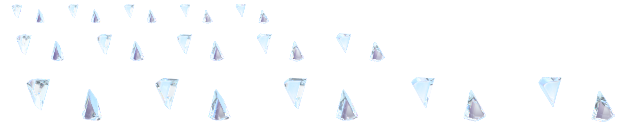
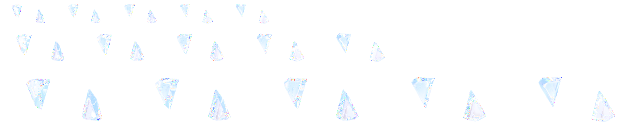
fresnel(desktop): 크리스탈을 더 맑게 다시 굽고, 급함을 빛깔 없는 반전과 한 번의 톡으로, 확인이 필요한 줄을 이어지는 물듦 띠로 바꾼다(AGE-53)
- 크리스탈: 새 장면으로 판 둘을 다시 굽는다(면 너머로 바탕이 비치는 맑은 유리, 날의 작은 반짝임과 안쪽의 가는 줄).
  판 합계 약 64KB로 넷째 판보다 약 3.7KB 크다. 배치표는 그대로다.
- 급함(시한 있는 승인): info solid 파랑 면을 버리고 무채색 안에서 뒤집는다(면 text.primary, 숫자 bg.app, 굵기 700).
  새로 급해진 순간 한 번만 크기로 톡 커졌다 앉는다(0.9초, 밝기·빛깔 없음). 움직임 줄이기에서는 뒤집힌 면만이다.
- 확인이 필요한 대화 줄: 줄 단추에 data-attention을 두고 줄 칸 뒤에 옅은 오로라 물듦을 깐다(전체 폭, 왼쪽이 짙음).
  연달아 있는 줄은 아래로 2px 틈을 덮고 맞닿은 모서리를 펴서 한 띠로 잇는다(띠의 맨 위·맨 아래만 둥긂).
- spec DP-189, DP-190, DP-211, DP-223을 함께 고친다.

Claude-Session: https://claude.ai/code/session_01MZdxZPNkAEhvBZt7MZTX8h

diff --git a/xeon/apps/desktop/src/views/effects/attention.css b/xeon/apps/desktop/src/views/effects/attention.css
@@ -1,5 +1,5 @@
 /* 주의 면과 수 면(attention-mark.tsx의 AttendGlow, dot-orb.tsx, DP-188~191 [결정: 2026-11-13 사용자]). 주의 구슬은 없앴다(DP-211). "내 확인이 필요함"은 크리스탈 표시(crystal-mark.tsx, DP-223),
-   대화 줄 끝 수의 둥근 면(lcMk3: 줄 물듦과 줄의 표시를 뺐다), 카드의 오로라 면(종류마다 빛깔 조합, lcMk4)이 맡고(숫자는 무채색, lcMk2),
+   대화 줄의 옅은 물듦(연달아 있으면 한 띠, lcMk5)과 끝 수의 둥근 면(급함은 무채색 반전, lcMk5), 카드의 오로라 면(종류마다 빛깔 조합, lcMk4)이 맡고(숫자는 무채색, lcMk2),
    "도는 중"은 생각 구슬과 같은 흑백 점 구슬(progress-orb.tsx)이 맡는다. 구슬은 canvas라 여기는 칸과 면만 그린다.
    표시를 더하기보다 면(수 면·카드 빛)을 먼저 쓴다. 동시에 움직이는 수는 attention-budget.ts가 정한다(요청 그림 빛 3, 진행 구슬 8, 카드 오로라 1).
    caustic의 스펙트럼 고리(`orb` 유틸리티), 별·느낌표·단색 점은 앱에서 쓰지 않는다(DP-188, 시험 source-rules).
@@ -205,33 +205,38 @@
 /* 보통: caustic 배지(neutral soft, xs: 높이 18, 좌우 6) 그대로이고 그라데이션·빛 번짐이 없다. caustic 목록의 뜨거운 수(`listNavigationCount` hot)처럼
    최소 폭이 높이와 같아 한 자리는 원, 두 자리·"99+"는 알약이고 굵기 600·고정폭 숫자다
    (DP-189 [결정: 2026-11-19 사용자 "일반적인 경우는 배경색에 그라데이션이 아닌 caustic 랭귀지에 맞춰서", lcMk4]).
-   급함(시한 있는 승인): 배지가 info solid(채도 높은 파랑 면, 흰 글자)로 바뀌어 멈춘 채로도 읽히고, 새로 급해진 순간 한 번만 숨 쉬듯
-   커지며 밝아졌다 가라앉는다(`data-cue="urgent"`, 1.1초, 고리 없음). 움직임 줄이기에서는 색만이다 */
+   급함(시한 있는 승인): 빛깔 없이 무채색 안에서 뒤집힌다. 면은 글자색(text.primary), 숫자는 바탕색(bg.app)·굵기 700이라 멈춘 채로도 보통 수와
+   갈리고, 새로 급해진 순간 한 번만 톡 커졌다 앉는다(`data-cue="urgent"`, 0.9초, 크기만). 움직임 줄이기에서는 뒤집힌 면만이다
+   [결정: 2026-11-19 사용자 "3색없는 버전으로 4.나 가 좋은데", lcMk5가 lcMk4의 info solid 파랑 면과 밝기 숨을 바꿈] */
 .fx-attend-pill {
   min-width: var(--cs-control-compact-2xs);
   justify-content: center;
   font-weight: 600;
   font-variant-numeric: tabular-nums;
 }
+.fx-attend-pill[data-urgent] {
+  background-color: var(--cs-color-text-primary);
+  color: var(--cs-color-bg-app);
+  font-weight: 700;
+}
 .fx-attend-pill[data-cue="urgent"] {
-  animation: fx-attend-urgent 1100ms cubic-bezier(0.22, 1, 0.36, 1) 1;
+  animation: fx-attend-urgent 900ms cubic-bezier(0.22, 1, 0.36, 1) 1;
 }
 @keyframes fx-attend-urgent {
   0% {
-    transform: scale(0.86);
-    filter: brightness(1);
+    transform: scale(0.82);
   }
-  28% {
-    transform: scale(1.14);
-    filter: brightness(1.35);
+  30% {
+    transform: scale(1.18);
   }
-  62% {
-    transform: scale(0.97);
-    filter: brightness(1.1);
+  58% {
+    transform: scale(0.95);
+  }
+  80% {
+    transform: scale(1.02);
   }
   100% {
     transform: scale(1);
-    filter: brightness(1);
   }
 }
 @media (prefers-reduced-motion: reduce) {
@@ -241,6 +246,54 @@
 }
 :root[data-motion="reduce"] .fx-attend-pill[data-cue="urgent"] {
   animation: none;
+}
+
+/* ---------- 확인이 필요한 대화 줄의 물듦(thread-list.tsx `data-attention`, DP-190) ---------- */
+
+/* 줄 칸(li) 뒤에 옅은 오로라 물듦을 깐다(줄 단추의 가리킴·고른 면은 그 위에 선다). 연달아 있는 확인 필요 줄은 하나의 띠로 잇는다:
+   다음 줄도 물들면 아래 모서리를 펴고 줄 사이 1px 틈까지 덮고, 앞 줄도 물들면 위 모서리를 편다. 그래서 띠의 맨 위 줄과 맨 아래 줄에만
+   둥근 모서리가 남는다(줄 사이에는 ⋯ 칸 li가 끼어 있어 `+ [data-row-menu] +`로 이웃 줄을 찾는다). 다른 폴더 묶음의 줄은 다른 목록이라 잇지 않는다
+   [결정: 2026-11-19 사용자 "4.나 가 좋은데, 얘는 border radius를 없애던가 해서, 연속적인 두 row가 확인이 필요할 때, 어색하게 보여지지 않고
+   이어지게 보이도록", lcMk5가 lcMk3의 "물듦 없음"을 바꿈] */
+:root {
+  --fx-row-wash: 11%;
+}
+:root[data-theme="light"] {
+  --fx-row-wash: 8%;
+}
+[data-slot="list-navigation-item"]:has(> [data-attention]) {
+  position: relative;
+  isolation: isolate;
+}
+[data-slot="list-navigation-item"]:has(> [data-attention])::before {
+  content: "";
+  position: absolute;
+  inset: 0;
+  z-index: -1;
+  border-radius: var(--cs-radius-lg);
+  pointer-events: none;
+  background-image: linear-gradient(
+    90deg,
+    color-mix(in oklch, var(--fx-crystal-a) var(--fx-row-wash), transparent),
+    color-mix(in oklch, var(--fx-crystal-b) calc(var(--fx-row-wash) * 0.7), transparent) 60%,
+    color-mix(in oklch, var(--fx-crystal-b) calc(var(--fx-row-wash) * 0.45), transparent)
+  );
+}
+/* 다음 줄도 물듦: 아래 모서리를 펴고 줄 사이 틈까지 내려 덮는다. 틈은 2px다: 줄과 ⋯ 칸 사이, ⋯ 칸과 다음 줄 사이의 격자 간격(gap-px)이
+   하나씩이고 ⋯ 칸은 음수 여백이라 높이 0인 칸이다 */
+[data-slot="list-navigation-item"]:has(> [data-attention]):has(
+    + [data-row-menu] + [data-slot="list-navigation-item"] > [data-attention]
+  )::before {
+  bottom: -2px;
+  border-end-start-radius: 0;
+  border-end-end-radius: 0;
+}
+/* 앞 줄도 물듦: 위 모서리를 편다 */
+[data-slot="list-navigation-item"]:has(> [data-attention])
+  + [data-row-menu]
+  + [data-slot="list-navigation-item"]:has(> [data-attention])::before {
+  border-start-start-radius: 0;
+  border-start-end-radius: 0;
 }
 
 /* ---------- 안전망: caustic 스펙트럼 고리를 쓰지 않는다(DP-188) ---------- */

diff --git a/xeon/apps/desktop/src/views/thread-list.tsx b/xeon/apps/desktop/src/views/thread-list.tsx
@@ -142,9 +142,10 @@ function approvalCountText(approvals: number): string {
 /**
  * 줄 끝 승인 수(DP-189 [결정: 2026-11-18 사용자 "숫자의 백그라운드에 동그란 surface를 넣어줘. 패딩은 너무 크지않게 적당히", lcMk3]).
  * 보통은 caustic 배지(neutral soft, xs 18px, 좌우 6px) 그대로다: 그라데이션 없이 caustic의 면·글자색·모서리([결정: 2026-11-19 사용자 "일반적인 경우는
- * 배경색에 그라데이션이 아닌 caustic 랭귀지에 맞춰서", lcMk4]). 급함(시한 있는 승인)은 채도 높은 info solid 면에 흰 글자이고, 보던 줄이 새로 급해진
- * 순간 한 번만 숨 쉬듯 커지며 밝아졌다 가라앉는다(`data-cue="urgent"`, [결정: 2026-11-19 사용자 "더 채도높은 색을 쓰던지 마이크로 모션 이펙트를 넣던지"]).
- * 처음 그릴 때(목록을 열 때)는 움직이지 않는다. 보이는 숫자는 낭독하지 않고 숨은 글이 "승인 n개를 기다려요(· 시한이 있어요)"를 말한다
+ * 배경색에 그라데이션이 아닌 caustic 랭귀지에 맞춰서", lcMk4]). 급함(시한 있는 승인)은 빛깔 없이 무채색 안에서 뒤집힌다: 면이 글자색(text.primary),
+ * 숫자가 바탕색(bg.app)·굵기 700이라 멈춘 채로도 보통 수와 갈리고, 보던 줄이 새로 급해진 순간 한 번만 톡 커졌다 앉는다(`data-cue="urgent"`, 0.9초,
+ * 크기만) [결정: 2026-11-19 사용자 "3색없는 버전으로", lcMk5가 lcMk4의 info solid 파랑 면을 바꿈]. 처음 그릴 때(목록을 열 때)는 움직이지 않는다.
+ * 보이는 숫자는 낭독하지 않고 숨은 글이 "승인 n개를 기다려요(· 시한이 있어요)"를 말한다
  */
 function ApprovalCount(props: { readonly approvals: number; readonly urgent: boolean }): ReactNode {
   const waiting = t("desktop.threads.approvalsWaiting", { count: props.approvals });
@@ -158,8 +159,8 @@ function ApprovalCount(props: { readonly approvals: number; readonly urgent: boo
   return (
     <Badge
       size="xs"
-      // 급함은 caustic info solid의 면·글자(배지 solid × info와 같은 토큰). 보통은 배지 기본(neutral soft) 그대로다
-      className={props.urgent ? "fx-attend-pill bg-info-solid text-info-on" : "fx-attend-pill"}
+      // 급함의 뒤집힌 면·글자는 attention.css `.fx-attend-pill[data-urgent]`가 칠한다. 보통은 배지 기본(neutral soft) 그대로다
+      className="fx-attend-pill"
       data-thread-badge="approvals"
       data-urgent={props.urgent ? "" : undefined}
       data-cue={cue ? "urgent" : undefined}
@@ -211,7 +212,7 @@ const ThreadRow = memo(function ThreadRow(props: {
       <ListNavigationItem
         current={selected}
         // 앞 칸(DP-189 [결정: 2026-11-13 사용자 "좌측 아이콘은 아예 빼버리고"]): 줄 앞에는 표시를 두지 않아 모든 줄의 제목이 같은 열에 선다.
-        // 내 확인이 필요하면 끝의 둥근 면 위 숫자(줄 물듦은 lcMk3가 뺐다), 도는 중이면 끝의 진행 구슬, 안 보냈으면 caustic 실패 점이다. caustic
+        // 내 확인이 필요하면 줄의 옅은 물듦과 끝의 둥근 면 위 숫자(DP-190, lcMk5), 도는 중이면 끝의 진행 구슬, 안 보냈으면 caustic 실패 점이다. caustic
         // `status="running"`은 스펙트럼 고리를 그려 쓰지 않는다(DP-188). 승인을 기다리는 턴은 멈춰 있으므로 주의가 이긴다(진행 구슬 없음)
         {...(!attention && !running && unsent
           ? {
@@ -228,6 +229,8 @@ const ThreadRow = memo(function ThreadRow(props: {
         }
         // 목록 순서가 바뀌거나 행이 들고 날 때 옛 자리에서 이어 온다(ThreadList의 useFlipList)
         data-flip-key={id}
+        // 확인이 필요한 줄의 물듦: 연달아 있는 줄은 attention.css가 한 띠로 잇는다(DP-190)
+        data-attention={attention ? "" : undefined}
         title={tooltip}
         // 오른쪽 클릭은 ⋯와 같은 메뉴를 연다(줄 끝 ⋯ 자리에 붙는다)
         onContextMenu={(event) => {

diff --git a/xeon/apps/desktop/test/styles/source-rules.test.ts b/xeon/apps/desktop/test/styles/source-rules.test.ts
@@ -212,10 +212,11 @@ test("status marks are dotted orbs, never stars or solid dots (DP-189)", () => {
 const hues = (text: string): number[] =>
   [...text.matchAll(/oklch\(\s*[\d.]+\s+[\d.]+\s+([\d.]+)\s*\)/g)].map((m) => Number(m[1]));
 
-test("attention counts are caustic badges without a gradient, urgent is info solid, and each card kind has its own aurora around its tile hue (DP-189, DP-190)", () => {
+test("attention counts are caustic badges without a gradient, urgent is an inverted colourless badge, attention rows join into one wash, and each card kind has its own aurora around its tile hue (DP-189, DP-190)", () => {
   // 사용자 결정(2026-11-18, lcMk2): "숫자 무채색 바꿔. 호박색 쓰지말고". lcMk3: "숫자의 백그라운드에 동그란 surface". 줄 물듦은 수 면과 겹쳐 과해 뺐다(lcMk3).
   // lcMk4(2026-11-19): "일반적인 경우는 배경색에 그라데이션이 아닌 caustic 랭귀지에 맞춰서", "더 채도높은 색을 쓰던지 마이크로 모션",
   // "변경검토나 단순 질문이나, 가드 각각 다른 색이 중심인데, 각 중심색에 맞게 오로라의 색조합들도 각각 다르게"
+  // lcMk5(2026-11-19): "3색없는 버전으로 4.나 가 좋은데, 얘는 border radius를 없애던가 해서, 연속적인 두 row가 확인이 필요할 때 … 이어지게"
   const css = read(join(SRC, "views/effects/attention.css")).replace(/\/\*[\s\S]*?\*\//g, "");
   const rule = (selector: string): string => {
     const at = css.indexOf(`${selector} {`);
@@ -223,6 +224,12 @@ test("attention counts are caustic badges without a gradient, urgent is info sol
   };
   const count = rule(".fx-attend-count");
   const pill = rule(".fx-attend-pill");
+  const urgent = rule(".fx-attend-pill[data-urgent]");
+  const cue = css.slice(
+    css.indexOf("@keyframes fx-attend-urgent"),
+    css.indexOf("@media", css.indexOf("@keyframes fx-attend-urgent")),
+  );
+  const wash = rule('[data-slot="list-navigation-item"]:has(> [data-attention])::before');
   const list = codeOf(join(SRC, "views/thread-list.tsx"));
   const kinds = ["review", "question", "tool", "guard"].map((kind) =>
     rule(`.fx-attend-glow[data-kind="${kind}"]`),
@@ -239,9 +246,25 @@ test("attention counts are caustic badges without a gradient, urgent is info sol
     kinds.map((block) => centre(block).every((h) => h >= 40 && h <= 100)),
     kinds.map(centre),
     hues(css).filter((h) => h > 21 && h < 45),
-    /<Badge\b[^>]*className=\{props\.urgent \? "fx-attend-pill bg-info-solid text-info-on" : "fx-attend-pill"\}/.test(
+    // 급함: 무채색 안에서 뒤집힌 면(글자색 면, 바탕색 숫자)이고 빛깔(info·oklch)이 없다. 한 번의 움직임은 크기만이다
+    /<Badge\b[^>]*className="fx-attend-pill"[^>]*data-urgent=\{props\.urgent \? "" : undefined\}/.test(
       list,
     ),
+    [
+      /background-color:\s*var\(--cs-color-text-primary\)/.test(urgent),
+      /color:\s*var\(--cs-color-bg-app\)/.test(urgent),
+      /info|oklch|hsl|rgb/.test(urgent + list.slice(list.indexOf("function ApprovalCount"))),
+      /filter|color|opacity/.test(cue),
+    ],
+    // 확인이 필요한 줄은 물들고(data-attention), 연달아 있으면 아래로 틈을 덮고 맞닿은 모서리를 편다
+    [
+      /data-attention=\{attention \? "" : undefined\}/.test(list),
+      /--fx-crystal-a/.test(wash),
+      /bottom:\s*-2px;\s*border-end-start-radius:\s*0;\s*border-end-end-radius:\s*0/.test(css),
+      /\+ \[data-row-menu\]\s*\+ \[data-slot="list-navigation-item"\]:has\(> \[data-attention\]\)::before \{\s*border-start-start-radius:\s*0;\s*border-start-end-radius:\s*0/.test(
+        css,
+      ),
+    ],
     css.match(/\.fx-attend-count\b/g)?.length,
   ]).toEqual([
     true,
@@ -259,6 +282,8 @@ test("attention counts are caustic badges without a gradient, urgent is info sol
     ],
     [],
     true,
+    [true, true, false, false],
+    [true, true, true, true],
     1,
   ]);
 });

diff --git a/xeon/apps/desktop/src/views/effects/crystal-mark.tsx b/xeon/apps/desktop/src/views/effects/crystal-mark.tsx
@@ -2,7 +2,7 @@
 // "재질 색은 앱 아이콘처럼 3d rendering 이 된 느낌 … 색이 앱 아이콘 처럼 은은하고 반짝이는 느낌", lcMk3]). "내 확인이 필요함"을 말한다.
 // 그림은 미리 렌더링한 유리다: scripts/crystal-bake.ts가 로고의 갈라진 두 조각(crystal-geometry.ts)을 광선 추적해(굴절, 프레넬 반사, 전반사,
 // 빛깔별 굴절률, 둥근 날) 판 두 장(crystal-dark.png, crystal-light.png, 배치표 crystal-sheet.ts)으로 구워 두었고, 여기서는 그 칸들을 캔버스에
-// 겹쳐 그리기만 한다. 거의 무색의 유리에 아래 왼쪽 보라·위 오른쪽 청록이 아주 옅게 스치고, 날과 꼭짓점이 반짝인다.
+// 겹쳐 그리기만 한다. 거의 무색의 맑은 유리라 면 너머로 바탕이 비치고, 빛은 날의 작은 반짝임과 안쪽의 가는 줄에 모인다(lcMk5).
 // 움직임(crystal-motion.ts의 자세)은 칸을 옮겨 낸다: 틈은 두 조각을 갈라진 면을 따라 떼고(gap·split), 돌림(yaw)은 구운 이웃 두 각을 섞고,
 // 빛(glow)은 같은 칸을 한 번 더 얹어 밝히고, 빛줄기(sweep)는 유리 위에만 얹는다(source-atop).
 // 쉬는 상태는 멈춘 한 장면이다: 값이나 테마가 바뀔 때 한 번 그리고 requestAnimationFrame을 걸지 않는다. 상황이 바뀌면 그 표시만 시계에 올라

diff --git a/docs/xeon/L4/desktop-ux/spec.md b/docs/xeon/L4/desktop-ux/spec.md
@@ -3988,8 +3988,8 @@ DP-11을 caustic 토큰으로 정했습니다(caustic `27fe658`, `bbb094a`, `FOU
 - DP-172 [결정: 2026-11-13 사용자 "신호등의 align을 중앙정렬로 맞춰주고, fresnel 로고 아이콘을 제거해줘", dzZ] 머리 줄의 신호등과 로고. (1) 신호등은 어느 앱 확대에서도 머리 줄 세로 가운데입니다. 머리 줄은 확대를 따라 화면에서 45 × 확대 px이 되지만 신호등은 OS가 그대로 그리므로, 화면이 `window_chrome_state {zoom}`(%, L4.desktop.spec §11.5)으로 확대를 알리고 셸이 `setWindowButtonPosition`으로 y를 `round(((45 - 1) × 확대 - 지름) / 2)`에 다시 둡니다(macOS 26: 90% 13, 100% 15, 125% 21, 150% 26, 200% 37). x 16과 비우는 폭(DP-80)은 그대로입니다. 화면은 시작할 때와 `data-zoom`이 바뀔 때 알립니다. 실측(Electron 앱, 임시 홈): 신호등 가운데와 영역 탭 가운데의 차이 90% 0, 100% 0, 125% 0.4, 150% 0px(전에는 125%에서 5.6px 위). (2) 머리 줄의 Fresnel 로고는 없습니다. 펼친 패널 첫 줄은 영역 탭이 첫 요소라 신호등이 있으면 신호등 끝 + 16px(x 92), 없으면(전체 화면·웹) 패널 안쪽 6px에 서서 아래 "새 대화" 줄의 왼쪽 끝과 맞습니다. 접은 막대의 머리 칸은 빈 머리 띠로 남아 머리 선이 이어지고 아래 단추가 움직이지 않습니다. 앱 아이콘·독 아이콘·다른 화면의 로고는 그대로입니다. 구현: `apps/desktop-shell/src/main/window-chrome.ts`(`trafficLightPositionOf`, `placeTrafficLights`, `zoomPercentOf`), `apps/desktop/src/views/shell/window-chrome.ts`(`zoomPercentOfRoot`, `watchZoom`), `main.tsx`, `views/shell/start-panel.tsx`, `styles.css`.
 - DP-173 [결정: 2026-11-13 사용자 "화면 배율이 125가 되니 오로라 이펙트의 위치가 깨져"의 남은 곳, dzZ2] 앱 확대(DP-171) 아래에서 잰 값을 style에 쓰는 곳 전체의 규칙입니다. Chromium에서 `getBoundingClientRect`·`clientX/Y`·`innerWidth/Height`와 CSS `vw`·`vh`·`dvh`·UA `env()`는 확대가 곱해진 화면 크기이고, 요소 style(높이, transform, CSS 변수, 최대 폭)에 적은 px은 확대가 한 번 더 곱해집니다. `offsetHeight`·`clientWidth`·`scrollHeight`·ResizeObserver는 이미 CSS px이라 그대로 씁니다. 규칙: (1) 화면 px로 잰 값을 style에 쓰는 곳은 그 요소의 실효 확대로 나눕니다. 환산은 `apps/desktop/src/lib/zoom.ts`의 `cssZoomOf`(DP-171에서 옮김)·`cssPxOf` 한 곳입니다. 고친 곳: 높이 잇기 `HeightGlide`와 넘겨받는 높이 `handoffHeight`(CSS px), 목록 FLIP `useFlipList`, 왼쪽 패널 접기 FLIP(`views/shell/shell.tsx`), 토스트 폭(`toastWidth`의 입력을 `cssBoxOf`로 옮김), 되감기 확인을 여는 쪽(`rewindSideOf`), 작업 지도(`views/craft/`)의 선 자리·시야 이동·이름표 빛. (2) 창에 맞춘 상한은 `vw`·`vh`·`dvh`를 그대로 쓰지 않고 `styles.css`의 `--app-vw`·`--app-vh`·`--app-dvh`(확대로 나눈 값, `--app-zoom`은 `data-zoom` 단계)를 씁니다: 오른쪽 well 최대 폭, 승인 대기열 띠와 승인 카드 몸, 플러그인 탭 목록. 예외는 정의 자신, Radix select 남은 높이의 대체 값(확대로 나눔), Windows·Linux 창 단추 폭입니다. 창 단추 폭 `(100vw - env(titlebar-area-x) - env(titlebar-area-width)) / --app-zoom`은 두 값이 똑같이 확대가 곱해진 채 빼지므로 이미 맞았고 식은 그대로입니다(같은 UA 환경 변수인 `safe-area-inset-left` 138px을 CDP로 흉내 내 잰 차: 90~200% 모두 화면 1142 = 1280 − 138). 시험 `test/views/zoom-viewport.test.ts`가 화면 소스의 뷰포트 단위를 이 목록으로 묶습니다. 실측(견본, 1280×800, 화면 px, 90/100/125/150/200%): 높이 잇기 100→300 시작·끝 = 확대 × 100·300(전에는 125%에서 156.3·468.8, 200%에서 400·1200), FLIP 첫 프레임과 옛 자리의 차 0(전에는 −9.7/0/33.8/81/216), 승인 띠 40% 상한 320 고정(전에는 288/320/400/480/640), 640 폭 창 200%의 well 496(전에는 704로 창을 넘음). 토스트 폭 시험: 1440×900 125%에서 입력창 오른쪽 끝 + 12 밖에 섭니다(전에는 66px 덮음). 시험: `test/lib/zoom.test.ts`, `test/views/shell-toaster-slot.test.ts`. 기록 `_notes/design/dz/dzZ2-design.md`.
 - DP-188 [결정: 2026-11-13 사용자 "첨부한 첫번째 이미지 컴포넌트? 아이콘? 을 절대 사용하지 않아야하고 앞으로도 저거 안써야해", dzV3] 스펙트럼 고리 금지. caustic `orb` 유틸리티(conic 스펙트럼을 가운데 구멍으로 판 도는 도넛, 하늘색 → 보라)는 앱 어디에도 쓰지 않습니다. 앱에서 그 고리로 가던 길은 대화 목록 줄의 진행 상태(`ListNavigationItem status="running"`), 받은 요청 맨 위 제안 카드(`AgentRequest kind="proposal"`), 플러그인 활동 트리의 진행 단계(`ActivityTree` `status: "active"`)였습니다. 앞의 둘은 앱 부품으로 바꾸고, caustic 부품 안의 고리 칸(`[data-slot$="-orb"]`)은 앱 CSS(`views/effects/attention.css`)가 비웁니다(배경·마스크·회전 없음). 활동 트리의 진행 단계 칸에는 앱이 그 칸 안에 진행 구슬(`ProgressOrb`, DP-189)을 끼웁니다(`views/plugin/native-tree.tsx`). 그 밖의 칸은 비워 둡니다(별·단색 점으로 메우지 않습니다). 시험(`test/styles/source-rules.test.ts`)이 앱 소스의 `orb` 클래스, `CardOrb`, 제안·검토 `AgentRequest`, 에이전트 톤·변형, `EmptyState`의 구슬 표시, 목록 부품의 진행 상태를 막습니다. caustic에서 그 유틸리티를 지우거나 바꾸는 일은 다른 소비자가 있을 수 있어 [미결]입니다.
-- DP-189 [결정: 2026-11-13 사용자 "2번같은 스타일의 아이콘", dzV4가 dzV3의 별·크리스탈 점을 바꿈] 진행·주의 표시는 생각 구슬(DP-162·168)과 같은 점 구슬입니다. 별·반짝임, 단색 점, 불씨 원, 느낌표, 스펙트럼 고리(DP-188)는 영구히 쓰지 않습니다. 점의 자리와 움직임은 `thinking-orbs`의 기하(`MODE_FRAMES`, 프리셋 20)를 그대로 쓰고, 칠하기는 앱 부품(`DotOrb`, `views/effects/dot-orb.tsx`)이 합니다: 칸 12·14px에 맞춰 그리고(점 반지름은 √(20/칸)배로 덜 줄입니다), 기기 배율 × 앱 배율(최대 4)로 그려 앱 배율 90~200%에서 또렷하며, 시계 하나가 화면에 보이는 구슬만 그립니다(화면 밖·숨은 창에서 멈춤). (1) 진행 중(`ProgressOrb`, `views/effects/progress-orb.tsx`): 생각 구슬과 같은 상태 `connecting`(성긴 별자리)·흑백 잉크, 칸 14px. 쓰는 곳: 대화 목록 줄 끝(도는 대화, 줄 꼬리 글 뒤 6px), 지금 띠의 도는 일·에이전트, 플러그인 활동 트리의 진행 단계. (2) 내 확인이 필요함(`AttentionMark`, `views/effects/attention-mark.tsx`, 이름과 props 그대로): 상태 `listening`(물결이 고리들을 굴러가는 촘촘한 구)·따뜻한 잉크(점마다 세로 자리에 따라 호박 → 산호. 다크 sRGB (246,189,82) → (241,128,72), 라이트 (207,132,18) → (196,80,34), 깊이 그림자는 라이브러리와 같음), 칸 md 14px·sm 12px. 진행과 점의 밀도·모양·색 온도·움직임이 모두 달라 멈춘 한 장면에서도 갈립니다. 쓰는 곳: 받은 요청 카드 머리, 왼쪽 내비 "받은 요청"·"제안" 줄의 수 앞(`ScreenDef.attention`, 구슬과 수 사이 4px), 지금 띠의 승인 대기. (3) 표시 없이 수의 면만: 대화 목록의 확인이 필요한 줄은 앞 칸에도 끝 칸에도 표시를 두지 않고(자리도 두지 않아 모든 줄의 제목이 같은 열입니다) 끝에 둥근 면 위의 승인 수만 둡니다 [결정: 2026-11-18 사용자 "일반 대화 row 우측에는 아이콘 없어야 할듯함. 그리고 추가적으로 숫자의 백그라운드에 동그란 surface를 넣어줘. 패딩은 너무 크지않게 적당히", lcMk3가 2026-11-13 "원형 뒷배경 빼는게"와 lcMk의 줄 끝 크리스탈을 바꿈]. 면은 caustic 배지(`Badge` neutral soft, xs: 높이 18, 좌우 6, 최소 폭 18이라 한 자리는 원, 두 자리와 "99+"(100 이상)는 알약)이고, 숫자는 무채색(text.secondary) 굵기 600·고정폭 숫자입니다(`.fx-attend-pill`). 면은 caustic 배지 그대로이고 그라데이션·빛 번짐을 섞지 않습니다(caustic 목록의 뜨거운 수 `listNavigationCount` hot과 같은 최소 폭·굵기) [결정: 2026-11-19 사용자 "일반적인 경우는 배경색에 그라데이션이 아닌 caustic 랭귀지에 맞춰서", lcMk4가 lcMk3의 옅은 오로라 면을 바꿈]. 급함(시한 있는 승인, DP-223 (4))은 채도 높은 색과 한 번의 숨입니다 [결정: 2026-11-19 사용자 "더 채도높은 색을 쓰던지 마이크로 모션 이펙트를 넣던지 하자", lcMk4가 lcMk3의 밝기·테두리 1px를 바꿈]: 배지가 caustic info solid의 면·글자(info.solid, info.on)라 멈춘 채로도 읽히고, 보던 줄이 새로 급해진 순간 한 번만 숨 쉬듯 커지며 밝아졌다 가라앉습니다(`data-cue="urgent"`, 1.1초, 0.86 → 1.14 → 1배, 밝기 1.35배까지, 고리 없음). 처음 그릴 때(목록을 열 때)는 움직이지 않고, 움직임 줄이기에서는 색만입니다. 세 안(색만, 모션과 잉크 면, 섞음)을 나란히 찍어 섞음을 골랐습니다(`_notes/design/lc/lcMk4-shots/urgent-options-*.png`: 모션만은 쉬는 동안 보통 수와 거의 갈리지 않음). 숨 한 번은 약 68프레임이고 그 뒤 0입니다. 보이는 숫자는 낭독하지 않고 숨은 글이 "승인 n개를 기다려요"(급함이면 " · 시한이 있어요")를 말합니다. 줄 물듦(DP-190)은 면과 같이 놓으니 줄이 고른 줄처럼 보여 뺐습니다(lcMk3). 상태 줄 "승인 대기 n"은 바탕 없는 무채색 숫자 그대로입니다(`.fx-attend-count`, [결정: 2026-11-18 사용자 "숫자 무채색 바꿔. 호박색 쓰지말고", lcMk2]). 승인을 기다리는 대화는 진행 구슬을 두지 않습니다(턴이 멈춰 있습니다). 고른 줄과 hover 줄은 줄 끝 ⋯가 그 자리를 쓰므로 끝 표시(숫자·진행 구슬)를 숨깁니다(DP-104). 표시는 `aria-hidden`이고 뜻은 줄 툴팁과 숨은 글("실행 중", "승인 n개 대기")이 말합니다. 시험(`test/styles/source-rules.test.ts`)이 `LiveDot`, 단색 점 클래스, 별 모양, 점 배지를 막고 두 표시 부품이 `DotOrb`를 그리는지 봅니다.
-- DP-190 [결정: 2026-11-13 사용자, dzV3·dzV4] 주의 면과 움직임 상한. 확인이 필요한 대화 줄의 물듦(`.fx-attend-row`)은 없앴습니다: 줄 끝 수의 둥근 면(DP-189 (3))이 주의를 맡고, 물듦을 같이 두면 줄이 고른 줄처럼 보였습니다(lcMk3, `_notes/design/lc/lcMk3-shots/rows-*.png`). 받은 요청 카드(승인 카드, 요청 카드)는 대기 중에 주의 면을 깔고(`AttendGlow`, `.fx-attend-card`), 답을 보내는 동안은 걷습니다. 면의 짜임은 대화 입력창의 아래 변 빛(DP-107·167, `beam.tsx` GlowPlate)과 같습니다 [결정: 2026-11-19 사용자 "오로라 위치가 가운데로 갔으면 하고, border쪽은 더 밝기 및 채도가 높아져서 우리 대화창의 이펙트 같은 느낌으로", lcMk4가 lcMk3의 왼쪽 → 오른쪽 위 변 빛과 위 왼쪽 오로라를 바꿈]: 1px 고리 마스크 위의 빛깔 띠와 흰 심 알갱이(`.fx-glow-spark`), 카드 안쪽으로 흐리게 번지는 덩이(`.fx-glow-cloud`, 높이 min(52px, 56%), 흐림 16px, 다크 55%·라이트 30%), 다크는 더하기·라이트는 곱하기 섞기입니다. 입력창은 아래 변 전체지만 카드는 위 변의 가운데에서 가장 밝고 양쪽 모서리와 옆 변으로 사그라듭니다(가로 48%·세로 72px 타원 마스크). 빛깔 조합은 종류마다 다릅니다 [결정: 2026-11-19 사용자 "변경검토나 단순 질문이나, 가드 각각 다른 색이 중심인데, 각 중심색에 맞게 오로라의 색조합들도 각각 다르게", lcMk4가 lcMk3의 "모두 오로라(보라 → 청록)"를 바꿈]: 중심색(a, 가운데)은 종류 칸(DP-134 `KIND_TILE`)과 같은 색상각이고 이웃 색 둘(b·c, 양옆)로 번집니다. 변경 검토 보라(290) → 자홍(330) · 남색(262), 질문 파랑(240) → 청록(196) · 연보라 파랑(272), 도구 승인 호박(82) → 연둣빛 금(108) · 살구(60), 쓰기 허용(가드, 도구와 같은 호박 칸) 주황빛 호박(67) → 주황(55) · 꿀빛 금(92), 받은 요청의 제안 카드는 크리스탈 표시와 같은 오로라(`--fx-crystal-*`)입니다. 다크는 밝고 채도 높은 빛, 라이트는 같은 색상각의 조금 짙은 빛이고, 따뜻한 쪽은 위험(danger, 색상각 33)과 겹치지 않게 주황(55) 너머로 가지 않습니다. 위험 등급 배지, 종류 칸의 색, 거부 단추처럼 뜻이 있는 색은 그대로입니다(`attention.css` `[data-kind]`, 승인 카드 `attendKindOf`). 화면 전체에서 동시에 움직이는 것은 주의 구슬 3개, 진행 구슬 8개, 카드 숨(입력창과 같은 결의 3.6초 숨을 멈춘 자세에서 시작해 세 번 쉬고 섬, 약 12.6초. 그 뒤 프레임 0) 1개까지이고 나머지는 같은 구슬의 멈춘 한 장면입니다. 먼저 붙은 것이 자리를 받고 그것이 떨어지면 다음 것이 받습니다(`attention-budget.ts`). 카드 숨은 CSS transform·opacity만 움직이고, 구슬은 canvas 하나씩을 시계 하나(requestAnimationFrame 한 번)가 그립니다. 모든 구슬이 같은 시계를 보아 같은 상태끼리 한 박자입니다. 움직임 줄이기에서는 모두 멈춘 한 장면입니다.
+- DP-189 [결정: 2026-11-13 사용자 "2번같은 스타일의 아이콘", dzV4가 dzV3의 별·크리스탈 점을 바꿈] 진행·주의 표시는 생각 구슬(DP-162·168)과 같은 점 구슬입니다. 별·반짝임, 단색 점, 불씨 원, 느낌표, 스펙트럼 고리(DP-188)는 영구히 쓰지 않습니다. 점의 자리와 움직임은 `thinking-orbs`의 기하(`MODE_FRAMES`, 프리셋 20)를 그대로 쓰고, 칠하기는 앱 부품(`DotOrb`, `views/effects/dot-orb.tsx`)이 합니다: 칸 12·14px에 맞춰 그리고(점 반지름은 √(20/칸)배로 덜 줄입니다), 기기 배율 × 앱 배율(최대 4)로 그려 앱 배율 90~200%에서 또렷하며, 시계 하나가 화면에 보이는 구슬만 그립니다(화면 밖·숨은 창에서 멈춤). (1) 진행 중(`ProgressOrb`, `views/effects/progress-orb.tsx`): 생각 구슬과 같은 상태 `connecting`(성긴 별자리)·흑백 잉크, 칸 14px. 쓰는 곳: 대화 목록 줄 끝(도는 대화, 줄 꼬리 글 뒤 6px), 지금 띠의 도는 일·에이전트, 플러그인 활동 트리의 진행 단계. (2) 내 확인이 필요함(`AttentionMark`, `views/effects/attention-mark.tsx`, 이름과 props 그대로): 상태 `listening`(물결이 고리들을 굴러가는 촘촘한 구)·따뜻한 잉크(점마다 세로 자리에 따라 호박 → 산호. 다크 sRGB (246,189,82) → (241,128,72), 라이트 (207,132,18) → (196,80,34), 깊이 그림자는 라이브러리와 같음), 칸 md 14px·sm 12px. 진행과 점의 밀도·모양·색 온도·움직임이 모두 달라 멈춘 한 장면에서도 갈립니다. 쓰는 곳: 받은 요청 카드 머리, 왼쪽 내비 "받은 요청"·"제안" 줄의 수 앞(`ScreenDef.attention`, 구슬과 수 사이 4px), 지금 띠의 승인 대기. (3) 표시 없이 수의 면만: 대화 목록의 확인이 필요한 줄은 앞 칸에도 끝 칸에도 표시를 두지 않고(자리도 두지 않아 모든 줄의 제목이 같은 열입니다) 끝에 둥근 면 위의 승인 수만 둡니다 [결정: 2026-11-18 사용자 "일반 대화 row 우측에는 아이콘 없어야 할듯함. 그리고 추가적으로 숫자의 백그라운드에 동그란 surface를 넣어줘. 패딩은 너무 크지않게 적당히", lcMk3가 2026-11-13 "원형 뒷배경 빼는게"와 lcMk의 줄 끝 크리스탈을 바꿈]. 면은 caustic 배지(`Badge` neutral soft, xs: 높이 18, 좌우 6, 최소 폭 18이라 한 자리는 원, 두 자리와 "99+"(100 이상)는 알약)이고, 숫자는 무채색(text.secondary) 굵기 600·고정폭 숫자입니다(`.fx-attend-pill`). 면은 caustic 배지 그대로이고 그라데이션·빛 번짐을 섞지 않습니다(caustic 목록의 뜨거운 수 `listNavigationCount` hot과 같은 최소 폭·굵기) [결정: 2026-11-19 사용자 "일반적인 경우는 배경색에 그라데이션이 아닌 caustic 랭귀지에 맞춰서", lcMk4가 lcMk3의 옅은 오로라 면을 바꿈]. 급함(시한 있는 승인, DP-223 (4))은 빛깔 없는 반전과 한 번의 톡 움직임입니다 [결정: 2026-11-19 사용자 "3색없는 버전으로", lcMk5가 lcMk4의 info solid 파랑 면과 밝기 숨을 바꿈]: 면이 글자색(text.primary), 숫자가 바탕색(bg.app)·굵기 700이라 무채색 안에서 뒤집혀 멈춘 채로도 보통 수(회색 면·회색 글자)와 갈리고, 보던 줄이 새로 급해진 순간 한 번만 크기가 0.82 → 1.18 → 0.95 → 1배로 톡 커졌다 앉습니다(`data-cue="urgent"`, 0.9초, 밝기·빛깔 변화 없음, 고리·점·느낌표 없음). 처음 그릴 때(목록을 열 때)는 움직이지 않고, 움직임 줄이기에서는 뒤집힌 면만입니다. 세 안을 나란히 찍어 골랐습니다(`_notes/design/lc/lcMk5-shots/urgent-mono-options-*.png`): (가) 뒤집힘(고름), (나) caustic neutral solid 면 + 굵게(라이트에서는 읽히나 다크에서 보통 면과 차이가 작음), (다) 보통 면에 각진 모서리 + 굵게(쉬는 동안 거의 갈리지 않음). 보이는 숫자는 낭독하지 않고 숨은 글이 "승인 n개를 기다려요"(급함이면 " · 시한이 있어요")를 말합니다. 확인이 필요한 줄에는 옅은 물듦도 깝니다(DP-190, lcMk5). 상태 줄 "승인 대기 n"은 바탕 없는 무채색 숫자 그대로입니다(`.fx-attend-count`, [결정: 2026-11-18 사용자 "숫자 무채색 바꿔. 호박색 쓰지말고", lcMk2]). 승인을 기다리는 대화는 진행 구슬을 두지 않습니다(턴이 멈춰 있습니다). 고른 줄과 hover 줄은 줄 끝 ⋯가 그 자리를 쓰므로 끝 표시(숫자·진행 구슬)를 숨깁니다(DP-104). 표시는 `aria-hidden`이고 뜻은 줄 툴팁과 숨은 글("실행 중", "승인 n개 대기")이 말합니다. 시험(`test/styles/source-rules.test.ts`)이 `LiveDot`, 단색 점 클래스, 별 모양, 점 배지를 막고 두 표시 부품이 `DotOrb`를 그리는지 봅니다.
+- DP-190 [결정: 2026-11-13 사용자, dzV3·dzV4] 주의 면과 움직임 상한. 확인이 필요한 대화 줄은 옅은 물듦과 끝 수의 둥근 면(DP-189 (3))을 같이 둡니다 [결정: 2026-11-19 사용자 "4.나 가 좋은데, 얘는 border radius를 없애던가 해서, 연속적인 두 row가 확인이 필요할 때, 어색하게 보여지지 않고 이어지게 보이도록", lcMk5가 lcMk3의 "물듦 없음"을 바꿈]. 줄 단추에 `data-attention`을 두고 그 줄 칸(li) 뒤에 크리스탈 오로라 빛깔(`--fx-crystal-a` → `-b`)의 옅은 물듦을 깝니다(줄 전체 폭, 왼쪽이 가장 짙고 오른쪽으로 옅어짐, 다크 11%·라이트 8%). 연달아 있는 확인 필요 줄은 한 띠로 잇습니다: 다음 줄도 물들면 아래 모서리를 펴고 줄 사이 틈(2px: 줄과 높이 0인 ⋯ 칸 사이의 격자 간격 둘)까지 덮고, 앞 줄도 물들면 위 모서리를 펴서 띠의 맨 위와 맨 아래에만 둥근 모서리(lg)가 남습니다. 한 줄이면 둥근 조각 하나, 사이에 보통 줄이 끼면 띠가 끊기고, 다른 폴더 묶음끼리는 잇지 않습니다. 고른 줄은 띠 위에 caustic의 도드라진 면과 1px 테두리(segment thumb)로, 가리킨 줄은 회색 가리킴 면으로 서서 띠와 헷갈리지 않습니다(`attention.css`, `_notes/design/lc/lcMk5-shots/row-tint-runs-*.png`). 받은 요청 카드(승인 카드, 요청 카드)는 대기 중에 주의 면을 깔고(`AttendGlow`, `.fx-attend-card`), 답을 보내는 동안은 걷습니다. 면의 짜임은 대화 입력창의 아래 변 빛(DP-107·167, `beam.tsx` GlowPlate)과 같습니다 [결정: 2026-11-19 사용자 "오로라 위치가 가운데로 갔으면 하고, border쪽은 더 밝기 및 채도가 높아져서 우리 대화창의 이펙트 같은 느낌으로", lcMk4가 lcMk3의 왼쪽 → 오른쪽 위 변 빛과 위 왼쪽 오로라를 바꿈]: 1px 고리 마스크 위의 빛깔 띠와 흰 심 알갱이(`.fx-glow-spark`), 카드 안쪽으로 흐리게 번지는 덩이(`.fx-glow-cloud`, 높이 min(52px, 56%), 흐림 16px, 다크 55%·라이트 30%), 다크는 더하기·라이트는 곱하기 섞기입니다. 입력창은 아래 변 전체지만 카드는 위 변의 가운데에서 가장 밝고 양쪽 모서리와 옆 변으로 사그라듭니다(가로 48%·세로 72px 타원 마스크). 빛깔 조합은 종류마다 다릅니다 [결정: 2026-11-19 사용자 "변경검토나 단순 질문이나, 가드 각각 다른 색이 중심인데, 각 중심색에 맞게 오로라의 색조합들도 각각 다르게", lcMk4가 lcMk3의 "모두 오로라(보라 → 청록)"를 바꿈]: 중심색(a, 가운데)은 종류 칸(DP-134 `KIND_TILE`)과 같은 색상각이고 이웃 색 둘(b·c, 양옆)로 번집니다. 변경 검토 보라(290) → 자홍(330) · 남색(262), 질문 파랑(240) → 청록(196) · 연보라 파랑(272), 도구 승인 호박(82) → 연둣빛 금(108) · 살구(60), 쓰기 허용(가드, 도구와 같은 호박 칸) 주황빛 호박(67) → 주황(55) · 꿀빛 금(92), 받은 요청의 제안 카드는 크리스탈 표시와 같은 오로라(`--fx-crystal-*`)입니다. 다크는 밝고 채도 높은 빛, 라이트는 같은 색상각의 조금 짙은 빛이고, 따뜻한 쪽은 위험(danger, 색상각 33)과 겹치지 않게 주황(55) 너머로 가지 않습니다. 위험 등급 배지, 종류 칸의 색, 거부 단추처럼 뜻이 있는 색은 그대로입니다(`attention.css` `[data-kind]`, 승인 카드 `attendKindOf`). 화면 전체에서 동시에 움직이는 것은 주의 구슬 3개, 진행 구슬 8개, 카드 숨(입력창과 같은 결의 3.6초 숨을 멈춘 자세에서 시작해 세 번 쉬고 섬, 약 12.6초. 그 뒤 프레임 0) 1개까지이고 나머지는 같은 구슬의 멈춘 한 장면입니다. 먼저 붙은 것이 자리를 받고 그것이 떨어지면 다음 것이 받습니다(`attention-budget.ts`). 카드 숨은 CSS transform·opacity만 움직이고, 구슬은 canvas 하나씩을 시계 하나(requestAnimationFrame 한 번)가 그립니다. 모든 구슬이 같은 시계를 보아 같은 상태끼리 한 박자입니다. 움직임 줄이기에서는 모두 멈춘 한 장면입니다.
 - DP-191 [결정: 2026-11-13 사용자, dzV3·dzV4] 요청 카드(`RequestCard`, `views/pages/shared/request-card.tsx`). 사용자 확인을 기다리는 요청 하나를 한 줄 카드로 보입니다: 주의 구슬(DP-189, 14px), 머리말(13/500 secondary), " · ", 제목(13/400 primary, 넘치면 말줄임), 오른쪽 끝 동작 단추(sm 28). 틀은 승인 카드와 같습니다(반경 xl, surface.base, 1px border-subtle). 안쪽 위아래 12, 왼쪽 16, 오른쪽 12라 높이는 52입니다. 주의 면(DP-190)이 깔립니다. 받은 요청 맨 위 제안 줄(`InboxProposalsRow`)이 씁니다(동작 "검토하기", outline).
 - DP-180 [결정: 2026-11-13 사용자 "tool output 결과값이 길어질 때 대화창 width를 벗어나서 렌더링되는 오류", dzV1] 대화 열은 가로로 스크롤되지 않습니다. 원인: 대화 줄 안의 한 열 그리드(답 `Message`의 agent 그리드, 하위 에이전트 카드, 펼친 도구 상세, 묶음 몸, 내 말 줄)는 열 폭을 정하지 않아 자식의 최소 내용 폭까지 늘어났고, 산문의 `overflow-wrap: break-word`는 최소 폭을 줄이지 못해 공백 없는 긴 조각(주소, base64, minified JSON, 긴 경로)이나 `white-space: pre` 코드 한 줄이 열을 수천 px로 밀었습니다(긴 줄 대화 실측: 답 11,588px, 카드 2,534px, 내 말 953px, 480폭에서 묶음 머리 544px). 규칙: (1) 대화 줄 안의 한 열 그리드는 `grid-template-columns: minmax(0, 1fr)`과 `min-width: 0`입니다. (2) 산문(답 본문, 생각, 카드 글, 상태 글)은 `overflow-wrap: anywhere`로 열 폭에서 끊습니다. (3) 코드 블록·diff·쓸 내용 미리보기·명령 결과 JSON은 자기 상자 안에서 가로 스크롤하고 줄을 바꾸지 않습니다. 도구 원문 출력(`convo-output`)은 지금처럼 줄을 바꿉니다. (4) 표는 자기 상자 안에서 가로 스크롤하고, 칸은 8em~28em이며 칸 안의 긴 조각은 끊습니다. (5) 한 줄 요약(도구 줄 대상, 실패 요약, 묶음 머리 곁 정보, 카드 제목, 첨부 칩 이름)은 말줄임이고, 카드 머리의 판·상태 칸은 줄어들지 않습니다. (6) 승인 카드 본문의 코드와 제목, 명령 출력 시트의 메시지도 같은 방식으로 끊습니다. 실측(대화 줄 전시 화면 `test/showcase/transcript/?set=long`, 모든 도구 줄·생각을 펼침, 창 1280·900·720 × 배율 100·125·150%와 480): 대화 열과 모든 줄의 scrollWidth = clientWidth. 시험: `test/styles/convo-overflow.test.ts`(규칙 값), 측정 스크립트 `_notes/tools/dzV1/overflow.mjs`. 구현: `views/convo/convo.css`, `views/convo/message-rows.tsx`, `views/message-attachments.tsx`, `views/file-change-view.tsx`, `views/approval-card/bodies.tsx`, `views/approval-card/approval-card.tsx`, `views/command-output-sheet.tsx`.
 - DP-181 [결정: 2026-11-13 사용자 "하단 statusbar의 백그라운드 색을 완전 투명으로 바꿔주고", dzV1] 하단 상태 줄은 바탕과 위 선이 없습니다(전에는 surface.base 면과 위 1px border-subtle 선이었습니다, dzG 문제 21). 무대 열 뒤(bg.app)가 그대로 보여 대화·설정·크래프트 무대와 한 면으로 이어지고 글과 표시만 뜹니다. 줄은 28px, 좌우 안쪽 8px, 칸은 caustic Button ghost xs(24px, 폼 표준의 상태 막대 단계), 칸 사이 4px(칸 안쪽 6px과 더해 글 사이 16px), 글 12px(`text-ui-sm`), 점·아이콘과 글 사이 4px입니다. 평소 글은 text.tertiary(실측 대비 다크 6.0:1, 라이트 4.7:1), hover와 열림은 text.secondary, 경고·위험만 그 글자색입니다. 구현: `src/styles.css`(`.statusbar`), `views/status-cell.tsx`.
@@ -4001,11 +4001,11 @@ DP-11을 caustic 토큰으로 정했습니다(caustic `27fe658`, `bbb094a`, `FOU
 - DP-208 [결정: 2026-11-15 사용자 dzC1 브리프 "생각 구슬 선명도"] 생각 구슬(`ThinkingIndicator`, 생각 줄·`ThinkingLive`·`stepperLive`·점검 줄)은 라이브러리 `ThinkingOrb` 대신 앱의 `DotOrb`(DP-189)로 그립니다. 기하(`MODE_FRAMES`, 프리셋 20, 상태 `ORB_STATE`)·흑백 잉크·크기 20·바깥 여백 −3(14px 칸)·`data-active`는 그대로이고, canvas 해상도는 기기 배율 × 앱 배율(최대 4)이라 앱 배율 150~200%에서도 또렷합니다(라이브러리는 기기 배율 2에서 자르고 앱 배율을 몰랐습니다). 생각 구슬은 움직임 상한(DP-190) 밖입니다(`attention-budget.ts`의 `thinking`, 상한 없음: 전에도 라이브러리 부품이라 세지 않았습니다). 움직임 줄이기에서는 멈춘 한 장면입니다.
 - DP-209 [결정: 2026-11-15 사용자 dzC1 브리프 "고른 턴 표시가 동심 고리로 읽히지 않게"] 변경 탭 턴별 보기(DP-200)에서 고른 턴은 고리로 표시하지 않습니다. caustic `Timeline`을 `tone="neutral" variant="ghost"`로 써서 마디의 1.5px 테두리 고리를 빼고(점은 같은 자리의 채운 점), 고른 상태는 턴 머리의 면과 글자색이 말합니다: 턴 머리는 제목 줄("턴 n · 사용자 말")과 요약 줄(12 tertiary)을 함께 담은 단추 하나이고(좌우 8·위아래 4 안쪽, 반경 md, 같은 크기만큼 바깥 여백을 빼 글 자리는 그대로), 고르면 `neutral-soft` 면과 말 글자색 primary(평소 secondary), 평소에는 hover 면입니다. caustic Timeline은 고치지 않았습니다. 구현: `views/panels/changes/changes-tab.tsx`(`TurnChanges`).
 - DP-210 [결정: 2026-11-15 사용자 "페이지 레벨에서 사용되는 이런 아이콘 디자인 스타일의 아이콘으로 새로", dzN2] 요청 그림(`RequestArt`). 받은 요청 카드 머리의 호박 점 구슬을 빈 상태 그림과 같은 손의 20 칸 선 그림으로 바꿉니다: 면 없는 선 1.1, 윤곽은 글 색 60%, 나란한 두 가닥(앞 100%, 뒤 1.5 아래 40%), 강조색(`accent-graphic`)은 가닥을 따라 흐르는 빛 한 획(1.5, 길이 18%)뿐이고 끝 점은 없습니다. 처음 나타날 때 가닥이 0.9초에 한 번 그려지고 그 뒤 빛이 7초마다 2.8초 동안 흐릅니다. 동시에 흐르는 수는 attention-budget `mark` 3이고, 넘거나 움직임을 줄이면 다 그려진 멈춘 그림입니다. 종류는 제안(전구, `ProposalArt`의 축소)과 승인(받은 편지함, `InboxArt`의 축소)입니다. 후보 셋(흐르는 빛, 그려졌다 사라지는 강조 가닥, 빛남)을 실제 크기와 4배로 원본 옆에 놓고 골랐습니다 [근거: `_notes/design/dz/dzN2-design.md` 1절]. 구현: `views/illustrations/request-art.tsx`, `illustrations.css`. 시험: `test/styles/source-rules.test.ts`(선 그림만, 점·구슬 없음).
-- DP-211 [결정: 2026-11-15 사용자 "색 구슬이 숫자 옆에 붙는 것 남용", dzN2] 주의 표시 자리. 수가 이미 있는 자리에는 표시를 두지 않습니다: 왼쪽 내비 수, 오른쪽 well 머리 요약("승인 2개가 기다려요"), 지금 띠(곁 정보 "승인 N개"가 말하고 앞 칸은 진행 구슬). 종류를 알려 줘야 하는 받은 요청 카드 머리는 요청 그림(DP-210, 움직임)이고, 실행 중 탭의 승인 대기 줄은 승인 그림 16의 멈춘 판입니다. 호박 주의 구슬(`AttentionMark`)과 내비 정의의 `attention` 표지는 없앴습니다. 카드 주의 면(`AttendGlow`)은 그대로입니다. DP-189의 "주의 구슬" 문장은 이 줄이 대체합니다. 수 글자는 빛깔을 띠지 않습니다(무채색 text.secondary, [결정: 2026-11-18 사용자 "숫자 무채색 바꿔", lcMk2]): 확인이 필요하다는 빛깔은 크리스탈 표시(DP-223)와 카드 면(DP-190, 종류마다 빛깔 조합)만 냅니다. 대화 줄 수의 둥근 면(DP-189 (3))은 caustic 배지 그대로이고 급함만 info solid입니다(lcMk4).
+- DP-211 [결정: 2026-11-15 사용자 "색 구슬이 숫자 옆에 붙는 것 남용", dzN2] 주의 표시 자리. 수가 이미 있는 자리에는 표시를 두지 않습니다: 왼쪽 내비 수, 오른쪽 well 머리 요약("승인 2개가 기다려요"), 지금 띠(곁 정보 "승인 N개"가 말하고 앞 칸은 진행 구슬). 종류를 알려 줘야 하는 받은 요청 카드 머리는 요청 그림(DP-210, 움직임)이고, 실행 중 탭의 승인 대기 줄은 승인 그림 16의 멈춘 판입니다. 호박 주의 구슬(`AttentionMark`)과 내비 정의의 `attention` 표지는 없앴습니다. 카드 주의 면(`AttendGlow`)은 그대로입니다. DP-189의 "주의 구슬" 문장은 이 줄이 대체합니다. 수 글자는 빛깔을 띠지 않습니다(무채색 text.secondary, [결정: 2026-11-18 사용자 "숫자 무채색 바꿔", lcMk2]): 확인이 필요하다는 빛깔은 크리스탈 표시(DP-223)와 카드 면(DP-190, 종류마다 빛깔 조합)만 냅니다. 대화 줄 수의 둥근 면(DP-189 (3))은 caustic 배지 그대로이고 급함은 빛깔 없는 반전입니다(lcMk5).
 - DP-214 [결정: 2026-11-15 사용자 "알림 카드도 디자인이 너무 구린데, 정보 위계계층이 명확하도록", dzN2] 알림 목록은 세로 레일 하나에 날짜 머리와 알림이 매달린 모양입니다. 레일 칸 20(선 1px `border-subtle`, 마디 둘레 4는 비움), 칸과 내용 사이 8입니다. 알림 한 장은 할 일 카드 또는 한 줄입니다. 카드: 오늘 생긴 안 읽은 오류와 아직 풀리지 않은 질문 대기이고, 안쪽 10/12, 반경 lg, 줄 사이 4, 1줄 제목 13/500 · 반복 "같은 오류 N번" 12 tertiary · 시각 12 tertiary, 2줄 본문 13/20 secondary(실패 원문은 정보 아이콘 InfoTip 뒤, 간격 4), 3줄 출처 링크(대화 아이콘 12, 이름 12 secondary, hover 밑줄, 누르면 그 대화) · 오른쪽 할 일 단추 solid sm 하나(키 넣기·키 바꾸기·제공자 열기, 질문이면 "답하러 가기")입니다. 오류 카드만 위험색 6%(라이트 5%) 면과 안쪽 1px 위험색 14%이고, 다른 카드는 `surface-raised` + 1px `border-subtle`입니다. 줄: 높이 32, 안쪽 좌우 12(카드 글과 같은 선), 제목 13(안 읽음 500 primary, 읽음 400 secondary) · 대화 이름 12 tertiary(대화가 없으면 본문 한 줄) · 시각 12 tertiary이고, 줄 전체가 그 대화로 가는 단추이며 hover·초점에서 시각 자리에 지우기(IconButton xs)가 뜹니다. 종류는 배지 알약이 아니라 면과 레일 마디의 아이콘 14 하나(오류 TriangleAlert, 승인 Inbox, 질문 MessageCircleQuestion, 끝남 CircleCheck, 백그라운드 Layers)로 말하고, 색은 오류 카드의 아이콘과 면에만 씁니다. 승인 대기는 받은 요청의 승인 구역이 같은 요청을 카드로 보이므로 한 줄입니다. 같은 날 바로 이어진 같은 원인(대화·종류·출처 이벤트·본문)은 가장 새 것 한 장으로 접습니다. 확장이 직접 낸 알림(`dialog.notified`)의 제목은 앱 말투로 바꾸지 않습니다. 후보 셋(할 일 카드 + 장부 줄, 대화별 카드 묶음, 세로 레일)을 well 폭 400에서 11건으로 비교해 레일에 장부 줄의 내용을 얹은 것으로 골랐습니다 [근거: `_notes/design/dz/dzN2-design.md` 2절]. 구현: `views/notices.tsx`, `views/notices.css`, `views/notices-model.ts`(`noticeItemsOf`, `noticeProminentOf`, `repeatTextOf`). 시험: `test/views/notices-model.test.ts`, `test/views/notice-list.test.tsx`.
 - DP-215 [결정: 2026-11-15 사용자, dzN2] 알림의 날짜 머리와 읽음. 날짜 머리는 기기 시간대 달력으로 오늘·어제·이전이고 높이 28, 12/500 tertiary, 레일 마디는 9×1 눈금입니다(두 번째 머리부터 위 8을 더 띄움). 읽음은 줄·출처·할 일 단추를 누를 때와 머리의 "모두 읽음"(ghost sm, 안 읽은 것이 있을 때만)으로 표시하고, 머리에 "새 알림 N"(12 tertiary)을 둡니다. 하나 지우기는 줄·카드의 지우기 단추이고, 모두 지우기는 지금처럼 확인 상자 뒤 경계를 올립니다. 읽음과 하나 지우기 표지는 화면 상태(`noticeMarks`)라 지운 경계처럼 앱을 다시 열면 비어 있습니다 [미결: 앱을 다시 열어도 남게 할지(로컬 설정에 seq 경계 저장) 사용자 결정].
 - DP-216 [결정: 2026-11-15 사용자 "load more 같은 버튼이나 infinite scroll", dzN2] 긴 알림 목록. 알림은 늘 새것 먼저이고, 처음 20장을 그린 뒤 끝에 닿으면(IntersectionObserver) 20장씩 더 그립니다. 같은 자리에 "이전 알림 더 보기"(ghost sm)가 있어 키보드와 관찰을 못 하는 곳에서도 됩니다. 화면은 새것 300개(`NOTICE_KEEP`)까지 듭니다. 읽기: `notify.list { afterSeq: 0 }`은 오래된 것부터 한 번에 최대 100개, 내구 이벤트 1000줄만 훑어서 첫 쪽만 읽던 앱은 사건이 많은 기록에서 최근 알림을 목록에 싣지 못했습니다(전달 알림으로 들어온 것만 보임). 이제 `nextSeq`로 끝까지 넘겨 읽고(`readNoticePages`, 전체 목록 호출 상한 200번, 대화별 이름 붙이기 20번) 새것만 듭니다 [미결: 엔진이 새것부터 읽는 쪽 나누기(`beforeSeq` 또는 역순)를 주면 그것으로 바꿈, 호출 수가 기록 길이에 비례함] [근거: `packages/cap-dialog/src/notify/service.ts` `scanNotices`, `LIST_DEFAULT_LIMIT`]. 정렬 셀렉트는 승인 구역만 거릅니다.
-- DP-223 [결정: 2026-11-18 사용자 "결정(크리스탈) 버전이 좋음. 그리고 각각에 대해 여러 상황에 대한 마이크로 모션들이 좀 추가되었으면 하는데. 이런 디자인이면 내비 옆에도 괜찮을듯 이뻐서", lcMk, Linear AGE-16] [결정: 2026-11-18 사용자 재질·색 "우리 앱 아이콘처럼 더 유리같은 느낌", "호박색 쓰지말고, 크리스탈과 어울리는 색을 써 … 오로라 색도 ㄱㅊ음", lcMk2, Linear AGE-53] [결정: 2026-11-18 사용자 "재질 색은 앱 아이콘처럼 3d rendering 이 된 느낌이어야 하는데 … 색이 좀 강한느낌이 있어 전반적으로 … 앱 아이콘 처럼 은은하고 반짝이는 느낌", lcMk3] 크리스탈 표시(`CrystalMark`, `views/effects/crystal-mark.tsx`). "내 확인이 필요함"은 로고의 비스듬히 갈라진 유리 결정 두 조각을 면 몇 장으로 줄인 입체로 말합니다(시안 `_notes/tools/orbit-mark/crystal-mark.html`의 "확인 필요"). 모양은 `crystal-geometry.ts`(오각 기둥의 두 끝을 비스듬히 자르고 왼쪽 위 → 오른쪽 아래로 가른 두 조각, 틈을 따라 조금 밀림), 그림은 미리 렌더링한 유리입니다(lcMk3가 lcMk2의 선·면 벡터 칠하기를 바꿈): `scripts/crystal-bake.ts`(`just desktop-crystal-bake`)가 두 조각에 모든 모서리를 좁게 깎은 면(0.018)을 더하고, 의존 없는 CPU 광선 추적기 `scripts/crystal-trace.ts`로 굴절, 프레넬 반사, 안쪽 전반사(7번까지), 빛깔별 굴절률(1.494·1.512·1.532, 날의 옅은 무지개), 둥근 날, 아주 옅은 흡수를 계산해 스튜디오 빛으로 굽습니다. 스튜디오는 앱 아이콘처럼 밝은 판 앞의 맑은 유리입니다 [결정: 2026-11-19 사용자 "그 방향맞아. 한번 더 다듬자", lcMk4가 셋째 판의 어둡고 회색에 가까운 재질을 밝힘]: 넓은 면광 위의 작고 센 열쇠 빛(왼쪽 위)과 둘째 반짝임(오른쪽 위), 오른쪽 띠 빛, 방의 밝기, 뒤로 비스듬히 빠지는 가장자리 빛(하늘빛), 그리고 유리 너머로 비치는 밝은 뒤판(위 왼쪽 하늘빛 → 흰 → 아래 오른쪽 보랏빛, 아래로 갈수록 보랏빛으로 가라앉아 면마다 밝기가 다름)입니다. 칸 크기마다 따로 맞춥니다(`studioOf`): 작은 칸(14·20px의 2x 판, 28·40)은 몸을 더 채우고(뒤판 몫 다크 0.78·라이트 0.72) 빛깔·가장자리 빛·노출을 올리고 둥근 날을 1.3px로 넓혀, 줄이면 잔 결이 평균되어 회색이 되던 것을 막습니다. 큰 칸(64)은 다크 0.64·라이트 0.6입니다. 다섯 번 구워 앱 아이콘과 나란히 견주었습니다(`_notes/design/lc/lcMk4-shots/iter-1~5.png`, `compare-*.png`). 유리를 곧장 지나 화면 뒤로 가는 빛은 투명도가 되어 어느 바탕에서나 그 바탕이 비치고, 빛깔이 든 투과분만 테마 바탕색(caustic bg-app)에 맞춰 색에 접습니다. 카메라는 위에서 조금 내려다보고(피치 0.3, 요 −0.45, 롤 −0.26) 두께와 윗면이 보입니다. 결과는 밝고 맑은 유리에 하늘빛(위 오른쪽 조각)과 보랏빛(아래 왼쪽 조각)이 옅게 들고 날과 꼭짓점이 반짝이는 그림이고, 라이트는 날이 푸른 청회 윤곽(검정 없음)이라 흰 바탕에 묻히지 않습니다. 판은 테마마다 한 장(`views/effects/crystal-dark.png`, `crystal-light.png`, 640×132, 둘 합쳐 약 60KB, 셋째 판보다 약 3.7KB 작음)이고 줄마다 칸 크기 하나(기기 px 28·40·64), 칸마다 요 한 각(−0.25, 0, 0.14, 0.35, 0.6)의 조각 하나이며, 배치표는 `crystal-sheet.ts`(굽기가 씀)입니다. 부품은 기기 px로 덮는 가장 작은 칸(14px@2x 28, 20px@2x 40, 그 위 64에서 줄임)을 캔버스에 겹쳐 그리기만 합니다. 판은 처음 그릴 때 읽고, 다 읽으면 모든 표시를 다시 그립니다(읽는 동안은 비어 있음). 쉬는 자세는 칸 그대로라 색이 은은하고, 급함은 빛깔이 아니라 모양(틈)과 밝기로 다릅니다. 같은 굽기에서 128·256 칸을 뽑아 64px 이상 견본에 씁니다(`--boxes`, `--out`, 앱에 싣지 않음). 길 셋을 만들어 비교해 골랐습니다(`_notes/design/lc/lcMk3-shots/routes-compare-dark.png`): (가) 미리 렌더링한 판(고름: 쉬는 비용 0, 작은 크기에서 렌더링한 그림 그대로, 판 둘 약 62KB), (나) 실시간 WebGL 셰이더(같은 광선 추적을 셰이더로, 움직임은 자유롭지만 표시마다 컨텍스트나 공유 컨텍스트에서 옮겨 그리기가 들고 쉬는 동안 한 장을 그려 두는 관리가 듦), (다) 앱 아이콘 그림에서 떼어 쓰기(가장 닮지만 렌더 뒤판이 그림에 박혀 있어 투명하게 떼어지지 않고, 틈이 열리는 움직임과 작은 크기의 윤곽이 무너짐). 그라데이션 고리, 별, 단색 점, 불씨 원, 느낌표는 여전히 쓰지 않습니다(DP-188·189). (1) 자리(대화 목록 줄에는 두지 않습니다 [결정: 2026-11-18 사용자 "일반 대화 row 우측에는 아이콘 없어야 할듯함", lcMk3]. 줄은 수의 둥근 면만, DP-189 (3)): 받은 요청 카드 머리(`RequestCard`, 20, DP-210의 요청 그림을 바꿈. 종류는 머리말 글이 말함), 왼쪽 내비 "제안" 줄 끝(14, 수 앞, 검토를 기다리는 제안이 있을 때만, 내비 전체에서 이 줄 하나뿐. `ScreenDef.Mark`. 받은 요청은 오른쪽 막대 탭이라 내비 줄이 없습니다, DP-192). DP-211의 "수 옆 표시 없음"은 이 둘에서 이 줄이 대체합니다. 오른쪽 막대 받은 요청 칸의 수, 상태 줄 "승인 대기 n", well 머리 요약, 지금 띠는 그대로 수·글만입니다. (2) 상황별 모션(`crystal-motion.ts`의 `CRYSTAL_CUES`, 한 번 돌고 멈춤): 들어옴 320ms(작게·돌아 있고 두 조각이 떨어진 자세에서 모이며 빛 한 줄기가 아래에서 위로 360ms), 나감 200ms(두 조각이 틈을 따라 갈라지며 사라짐, 그 뒤 자리를 비움), 가리킴·키보드 초점 200ms(조각이 조금 벌어지고 빛 쪽으로 돌며 빛 한 줄기 320ms, 가리키는 동안 그 자세로 멈춤)·벗어남 160ms, 누름(Enter·Space 포함) 150ms(두 조각이 한 번 맞물림), 수가 늚 260ms(조금 튀고 빛이 오름)·줆 220ms(조금 잦아들고 빛이 내림), 급함이 됨 420ms(짧게 떨고 틈이 더 열린 밝은 자세로)·풀림 200ms. 곡선은 `lib/motion.ts` EASE(들어옴 enter, 나감 exit, 나머지 standard)입니다. 구운 그림에서 움직임은 칸을 옮겨 냅니다: 틈(gap·split)은 두 조각을 갈라진 면의 화면 방향으로 떼고, 돌림(yaw)은 구운 이웃 두 각을 더해 섞고(`lighter`), 빛(glow)은 쉬는 자세(0.6)보다 밝은 만큼 같은 칸을 한 번 더 얹고(다크는 더해 밝히고 라이트는 덮어 날이 또렷), 빛줄기(sweep)는 유리 위에만(`source-atop`) 옅은 오로라 띠(다크는 거의 흰빛)로 지나갑니다. 처음 그릴 때는 움직이지 않습니다(목록을 열 때 여러 표시가 한꺼번에 들어오지 않게). 들어옴은 보이던 줄에서 확인이 필요해질 때입니다. (3) 쉬는 상태(기다리는 중)는 멈춘 한 장면이고 프레임을 그리지 않습니다: 값·테마·배율이 바뀔 때만 한 번 그리고, 움직이는 동안만 그 표시가 시계 하나(requestAnimationFrame)에 오릅니다. 동시에 움직이는 표시는 4개까지이고 나머지와 숨은 창은 바로 끝 자세입니다. 움직임 줄이기(OS·앱 설정)에서는 모션 없이 끝 자세로 바뀌고 나감은 바로 사라집니다. (4) 급함: 부품은 급함 자세(`urgent`)를 그대로 가집니다. 시한(`expiresAt`)이 있는 대기 승인은 대화 줄에서 수 면의 채도 높은 색과 한 번의 숨으로 알리고(DP-189 (3), `selectApprovalUrgent`), 지금 표시가 놓이는 카드·내비의 제안에는 시한이 없어 급함 자세를 쓰지 않습니다. 급함 자세는 틈이 더 열리고(1.6배) 더 밝은 자세입니다(색만이 아니라 모양으로도 다름). (5) 접근성: 표시는 장식이 아닙니다. `role="img"`와 이름(내비와 카드 "제안 n개 확인 필요"(카드 제목과 같은 문장을 두 번 낭독하지 않게 짧게), 급함이면 " · 시한이 있어요")을 갖고, 가리킴·누름은 가장 가까운 `[data-crystal-host]`(제안 내비 줄, 요청 카드)에서 듣습니다. caustic으로 옮기는 일은 뒤로 미룹니다 [미결: caustic 부품화 때 토큰(빛깔·시간)과 앱 배율 읽기를 caustic 쪽 이름으로]. (6) 개발 빌드의 표본 보기(`app/dev-sample.ts`, lcMk2): 실제 대기가 없어도 표시를 보려고 개발 빌드(`BUILD_CHECKS`)에서만 ⌘⌥⇧S(다른 OS는 Ctrl+Alt+Shift+S)로 켜고 끕니다(창을 다시 읽음, 값은 창의 localStorage). 켜면 화면이 읽는 거울 면에만 확인이 필요한 표본 대화 둘(배포 대화는 질문과 명령 실행(도구, 쓰기 등급), 다른 하나는 시한 있는 변경 검토와 쓰기 허용이라 승인 카드 네 종류의 빛깔 조합을 한 화면에서 볼 수 있음(lcMk4))과 기다리는 제안 둘(받은 요청 카드 하나가 따라 나옴)을 겹치고, 엔진 상태는 바꾸지 않습니다. 표본 대화를 열거나 표본 승인에 답하면 엔진이 모르는 id라 실패합니다(보기 전용). 정식 빌드에서는 단축키도 걸리지 않습니다. 시험: `test/views/crystal-motion.test.ts`, `test/views/crystal-sheet.test.ts`(판 크기와 배치표, 칸 고르기, 각 섞기), `scripts/crystal-trace.test.ts`(프레넬·굴절·다면체·베벨·PNG·층 나눔), `test/state/approval-urgent.test.ts`, `test/styles/source-rules.test.ts`, `test/app/dev-sample.test.ts`. 기록 `_notes/design/lc/lcMk-shots/`, `_notes/design/lc/lcMk2-shots/`, `_notes/design/lc/lcMk3-shots/`, `_notes/design/lc/lcMk4-shots/`.
+- DP-223 [결정: 2026-11-18 사용자 "결정(크리스탈) 버전이 좋음. 그리고 각각에 대해 여러 상황에 대한 마이크로 모션들이 좀 추가되었으면 하는데. 이런 디자인이면 내비 옆에도 괜찮을듯 이뻐서", lcMk, Linear AGE-16] [결정: 2026-11-18 사용자 재질·색 "우리 앱 아이콘처럼 더 유리같은 느낌", "호박색 쓰지말고, 크리스탈과 어울리는 색을 써 … 오로라 색도 ㄱㅊ음", lcMk2, Linear AGE-53] [결정: 2026-11-18 사용자 "재질 색은 앱 아이콘처럼 3d rendering 이 된 느낌이어야 하는데 … 색이 좀 강한느낌이 있어 전반적으로 … 앱 아이콘 처럼 은은하고 반짝이는 느낌", lcMk3] 크리스탈 표시(`CrystalMark`, `views/effects/crystal-mark.tsx`). "내 확인이 필요함"은 로고의 비스듬히 갈라진 유리 결정 두 조각을 면 몇 장으로 줄인 입체로 말합니다(시안 `_notes/tools/orbit-mark/crystal-mark.html`의 "확인 필요"). 모양은 `crystal-geometry.ts`(오각 기둥의 두 끝을 비스듬히 자르고 왼쪽 위 → 오른쪽 아래로 가른 두 조각, 틈을 따라 조금 밀림), 그림은 미리 렌더링한 유리입니다(lcMk3가 lcMk2의 선·면 벡터 칠하기를 바꿈): `scripts/crystal-bake.ts`(`just desktop-crystal-bake`)가 두 조각에 모든 모서리를 좁게 깎은 면(0.018)을 더하고, 의존 없는 CPU 광선 추적기 `scripts/crystal-trace.ts`로 굴절, 프레넬 반사, 안쪽 전반사(7번까지), 빛깔별 굴절률(1.494·1.512·1.532, 날의 옅은 무지개), 둥근 날, 아주 옅은 흡수를 계산해 스튜디오 빛으로 굽습니다. 스튜디오는 앱 아이콘처럼 맑고 반짝이는 유리입니다 [결정: 2026-11-19 사용자 "그 방향맞아. 한번 더 다듬자", lcMk4가 셋째 판의 어둡고 회색에 가까운 재질을 밝힘] [결정: 2026-11-19 사용자 "1은 앱 아이콘처럼 더 투명하고 반짝이게 가능하면 더 해줘", lcMk5]: 넷째 판의 뿌연 몸은 뒤로 비스듬히 빠지는 가장자리 빛과 넓은 빛(넓은 열쇠 빛 자락, 위쪽 하늘, 띠 빛, 아래 반사판)이 유리 안에서 꺾여 나간 광선마다 실린 탓이어서, 그 둘을 낮추고(`rim`·`soft`) 앞쪽 방 가운데 `open` 몫을 앱 바탕(투명)으로 두어 빛을 받지 않는 면이 맑게 비칩니다. 빛은 날에 모읍니다: 작고 센 열쇠 빛 심과 둘째 반짝임, 화면 평면 가까이 흩어 둔 작은 점 빛 넷(둥근 날 위의 정반사 점), 가는 띠 빛 둘(안쪽 전반사로 서는 밝은 줄)이고(`spark`, `lines`), 화면 쪽을 향한 점 빛은 앞면을 지나 꺾이며 넓은 노란 얼룩이 되어 두지 않습니다. 분산으로 갈라진 센 반짝임은 한 빛깔이 1을 넘는 만큼의 0.6을 세 빛깔에 나눠 더해 흰빛으로 탑니다(`HIGHLIGHT_SPILL`, 빨강·노랑 점이 남지 않고 둘레에만 옅은 무지개). 유리 너머로 비치는 밝은 뒤판(위 왼쪽 하늘빛 → 흰 → 아래 오른쪽 보랏빛)은 옅게만 남고(뒤판 몫 `veil` 큰 칸 다크 0.25·라이트 0.2), 흡수는 넷째 판의 반입니다. 칸 크기마다 따로 맞춥니다(`studioOf`): 작은 칸(14·20px의 2x 판, 28·40)은 줄이지 않고 따로 구워, 다크는 날 위 한두 점이 화소 하나를 채우게 반짝임을 올리고(`spark` 4.5, 큰 칸 2.5), 라이트는 흰 바탕에서 모양이 사라지지 않게 몸을 조금 채우고(0.6) 방을 낮춰 날이 청회로 서며 노출을 조금 낮춥니다(1.25). 둥근 날은 작은 칸 1.3px·큰 칸 1.1px입니다. 앱 아이콘과 나란히 견주며 구웠습니다(`_notes/design/lc/lcMk5-shots/iter-1~6.png`, `compare-*.png`). 14px에서 반짝임은 기기 화소 한두 개가 한계입니다(칸이 28 기기 px라 날 하나가 1~2px). 유리를 곧장 지나 화면 뒤로 가는 빛은 투명도가 되어 어느 바탕에서나 그 바탕이 비치고, 빛깔이 든 투과분만 테마 바탕색(caustic bg-app)에 맞춰 색에 접습니다. 카메라는 위에서 조금 내려다보고(피치 0.3, 요 −0.45, 롤 −0.26) 두께와 윗면이 보입니다. 결과는 밝고 맑은 유리에 하늘빛(위 오른쪽 조각)과 보랏빛(아래 왼쪽 조각)이 옅게 들고 날과 꼭짓점이 반짝이는 그림이고, 라이트는 날이 푸른 청회 윤곽(검정 없음)이라 흰 바탕에 묻히지 않습니다. 판은 테마마다 한 장(`views/effects/crystal-dark.png`, `crystal-light.png`, 640×132, 둘 합쳐 약 64KB. 날과 안쪽 줄의 잔 결이 늘어 넷째 판보다 약 3.7KB 큼)이고 줄마다 칸 크기 하나(기기 px 28·40·64), 칸마다 요 한 각(−0.25, 0, 0.14, 0.35, 0.6)의 조각 하나이며, 배치표는 `crystal-sheet.ts`(굽기가 씀)입니다. 부품은 기기 px로 덮는 가장 작은 칸(14px@2x 28, 20px@2x 40, 그 위 64에서 줄임)을 캔버스에 겹쳐 그리기만 합니다. 판은 처음 그릴 때 읽고, 다 읽으면 모든 표시를 다시 그립니다(읽는 동안은 비어 있음). 쉬는 자세는 칸 그대로라 색이 은은하고, 급함은 빛깔이 아니라 모양(틈)과 밝기로 다릅니다. 같은 굽기에서 128·256 칸을 뽑아 64px 이상 견본에 씁니다(`--boxes`, `--out`, 앱에 싣지 않음). 길 셋을 만들어 비교해 골랐습니다(`_notes/design/lc/lcMk3-shots/routes-compare-dark.png`): (가) 미리 렌더링한 판(고름: 쉬는 비용 0, 작은 크기에서 렌더링한 그림 그대로, 판 둘 약 62KB), (나) 실시간 WebGL 셰이더(같은 광선 추적을 셰이더로, 움직임은 자유롭지만 표시마다 컨텍스트나 공유 컨텍스트에서 옮겨 그리기가 들고 쉬는 동안 한 장을 그려 두는 관리가 듦), (다) 앱 아이콘 그림에서 떼어 쓰기(가장 닮지만 렌더 뒤판이 그림에 박혀 있어 투명하게 떼어지지 않고, 틈이 열리는 움직임과 작은 크기의 윤곽이 무너짐). 그라데이션 고리, 별, 단색 점, 불씨 원, 느낌표는 여전히 쓰지 않습니다(DP-188·189). (1) 자리(대화 목록 줄에는 두지 않습니다 [결정: 2026-11-18 사용자 "일반 대화 row 우측에는 아이콘 없어야 할듯함", lcMk3]. 줄은 수의 둥근 면만, DP-189 (3)): 받은 요청 카드 머리(`RequestCard`, 20, DP-210의 요청 그림을 바꿈. 종류는 머리말 글이 말함), 왼쪽 내비 "제안" 줄 끝(14, 수 앞, 검토를 기다리는 제안이 있을 때만, 내비 전체에서 이 줄 하나뿐. `ScreenDef.Mark`. 받은 요청은 오른쪽 막대 탭이라 내비 줄이 없습니다, DP-192). DP-211의 "수 옆 표시 없음"은 이 둘에서 이 줄이 대체합니다. 오른쪽 막대 받은 요청 칸의 수, 상태 줄 "승인 대기 n", well 머리 요약, 지금 띠는 그대로 수·글만입니다. (2) 상황별 모션(`crystal-motion.ts`의 `CRYSTAL_CUES`, 한 번 돌고 멈춤): 들어옴 320ms(작게·돌아 있고 두 조각이 떨어진 자세에서 모이며 빛 한 줄기가 아래에서 위로 360ms), 나감 200ms(두 조각이 틈을 따라 갈라지며 사라짐, 그 뒤 자리를 비움), 가리킴·키보드 초점 200ms(조각이 조금 벌어지고 빛 쪽으로 돌며 빛 한 줄기 320ms, 가리키는 동안 그 자세로 멈춤)·벗어남 160ms, 누름(Enter·Space 포함) 150ms(두 조각이 한 번 맞물림), 수가 늚 260ms(조금 튀고 빛이 오름)·줆 220ms(조금 잦아들고 빛이 내림), 급함이 됨 420ms(짧게 떨고 틈이 더 열린 밝은 자세로)·풀림 200ms. 곡선은 `lib/motion.ts` EASE(들어옴 enter, 나감 exit, 나머지 standard)입니다. 구운 그림에서 움직임은 칸을 옮겨 냅니다: 틈(gap·split)은 두 조각을 갈라진 면의 화면 방향으로 떼고, 돌림(yaw)은 구운 이웃 두 각을 더해 섞고(`lighter`), 빛(glow)은 쉬는 자세(0.6)보다 밝은 만큼 같은 칸을 한 번 더 얹고(다크는 더해 밝히고 라이트는 덮어 날이 또렷), 빛줄기(sweep)는 유리 위에만(`source-atop`) 옅은 오로라 띠(다크는 거의 흰빛)로 지나갑니다. 처음 그릴 때는 움직이지 않습니다(목록을 열 때 여러 표시가 한꺼번에 들어오지 않게). 들어옴은 보이던 줄에서 확인이 필요해질 때입니다. (3) 쉬는 상태(기다리는 중)는 멈춘 한 장면이고 프레임을 그리지 않습니다: 값·테마·배율이 바뀔 때만 한 번 그리고, 움직이는 동안만 그 표시가 시계 하나(requestAnimationFrame)에 오릅니다. 동시에 움직이는 표시는 4개까지이고 나머지와 숨은 창은 바로 끝 자세입니다. 움직임 줄이기(OS·앱 설정)에서는 모션 없이 끝 자세로 바뀌고 나감은 바로 사라집니다. (4) 급함: 부품은 급함 자세(`urgent`)를 그대로 가집니다. 시한(`expiresAt`)이 있는 대기 승인은 대화 줄에서 수 면의 무채색 반전과 한 번의 톡 움직임으로 알리고(DP-189 (3), `selectApprovalUrgent`), 지금 표시가 놓이는 카드·내비의 제안에는 시한이 없어 급함 자세를 쓰지 않습니다. 급함 자세는 틈이 더 열리고(1.6배) 더 밝은 자세입니다(색만이 아니라 모양으로도 다름). (5) 접근성: 표시는 장식이 아닙니다. `role="img"`와 이름(내비와 카드 "제안 n개 확인 필요"(카드 제목과 같은 문장을 두 번 낭독하지 않게 짧게), 급함이면 " · 시한이 있어요")을 갖고, 가리킴·누름은 가장 가까운 `[data-crystal-host]`(제안 내비 줄, 요청 카드)에서 듣습니다. caustic으로 옮기는 일은 뒤로 미룹니다 [미결: caustic 부품화 때 토큰(빛깔·시간)과 앱 배율 읽기를 caustic 쪽 이름으로]. (6) 개발 빌드의 표본 보기(`app/dev-sample.ts`, lcMk2): 실제 대기가 없어도 표시를 보려고 개발 빌드(`BUILD_CHECKS`)에서만 ⌘⌥⇧S(다른 OS는 Ctrl+Alt+Shift+S)로 켜고 끕니다(창을 다시 읽음, 값은 창의 localStorage). 켜면 화면이 읽는 거울 면에만 확인이 필요한 표본 대화 둘(배포 대화는 질문과 명령 실행(도구, 쓰기 등급), 다른 하나는 시한 있는 변경 검토와 쓰기 허용이라 승인 카드 네 종류의 빛깔 조합을 한 화면에서 볼 수 있음(lcMk4))과 기다리는 제안 둘(받은 요청 카드 하나가 따라 나옴)을 겹치고, 엔진 상태는 바꾸지 않습니다. 표본 대화를 열거나 표본 승인에 답하면 엔진이 모르는 id라 실패합니다(보기 전용). 정식 빌드에서는 단축키도 걸리지 않습니다. 시험: `test/views/crystal-motion.test.ts`, `test/views/crystal-sheet.test.ts`(판 크기와 배치표, 칸 고르기, 각 섞기), `scripts/crystal-trace.test.ts`(프레넬·굴절·다면체·베벨·PNG·층 나눔), `test/state/approval-urgent.test.ts`, `test/styles/source-rules.test.ts`, `test/app/dev-sample.test.ts`. 기록 `_notes/design/lc/lcMk-shots/`, `_notes/design/lc/lcMk2-shots/`, `_notes/design/lc/lcMk3-shots/`, `_notes/design/lc/lcMk4-shots/`, `_notes/design/lc/lcMk5-shots/`.
 - DP-212 [결정: 2026-11-15 사용자 "대화창에 bubble 느낌", dzN2] 생각 표시는 대화 본문 한 곳입니다. 첫 응답을 기다리는 줄은 가상 목록 밖(입력창 바로 위)이 아니라 목록의 마지막 줄(`pending`, 진행 중 줄이 없을 때만)이고, 생각 블록이 도는 동안의 머리와 같은 말풍선 면(`.convo-line[data-live]`: 높이 28, 반경 lg, `surface-raised` + 안쪽 1px `border-subtle`, 폭은 글에 맞춤, 왼쪽 선은 접힌 줄과 같음)에 생각 구슬과 "생각하는 중"을 둡니다. 진행 중 글이 오면 그 줄이 자리를 잇고, 생각이 끝나면 면이 빠져 접힌 "생각" 줄이 됩니다. 입력창 위(지금 띠 포함)에는 생각 표시를 두지 않습니다(지금 띠는 원래 생각을 그리지 않음). 구현: `views/transcript-rows.ts`(`awaiting`), `views/convo/thinking-block.tsx`(`ThinkingPending`), `views/convo/convo.css`. 시험: `test/views/transcript-rows.test.ts`.
 - DP-213 [결정: 2026-11-15 사용자 "권한바꾸는 트리거 바가 안보이는 경우", dzN2] 입력창 승인 모드 칩의 자리는 늘 있습니다. 전에는 `settings.get`을 읽기 전, 읽기 실패, 엔진이 모르는 값(옛 엔진의 `plan` 등)이나 값 없음, 처음부터 끊긴 연결에서 칩을 그리지 않았습니다. 이제 읽는 중(끊김 포함)은 "승인 모드" 글의 비활성 칩이고, 읽기 실패와 모르는 값·값 없음은 기본 모드 글에 점선 밑줄을 긋고 이유를 툴팁과 메뉴 맨 위 설명 줄(12 secondary)로 말합니다. 그때 메뉴에는 골라진 모드가 없고, 고르면 지금 값과 견주지 않고 그 모드를 씁니다. 읽기 실패면 메뉴에 "다시 읽기"가 있습니다. 새 대화도 빈 대화를 먼저 만들어 입력창을 여므로(`new-thread-flow.ts`) 같은 칩이고, 대화 없는 입력창은 없습니다. 구현: `views/permission-mode-model.ts`(`permissionModeReadOf`, `permissionChipViewOf`), `views/model-usage.ts`(`useThreadPermissionMode`), `views/composer-chips.tsx`. 시험: `test/views/permission-mode-model.test.ts`, `test/views/composer-trigger.test.tsx`.
 - DP-198 [결정: 2026-11-13 오케스트레이터 방향(사용자 2026-11-13 막대 재기획), dzR5] 오른쪽 막대 "변경" 탭(id `changes`, 대화 영역, 대화 화면). 이 대화가 바꾼 파일을 전체와 턴별로 보입니다. 원천은 열린 대화의 확정 item 가운데 완료된 도구 결과의 파일 변경 기록입니다. 엔진이 결과 `details`에 싣고, `fileChangesOf(details)`로 읽습니다(M5e 스펙 §4.7, F-5). 도구 이름과 호출 인자로는 파일을 세지 않습니다. 내장 `edit`·`write`의 결과와 대체 도구·플러그인이 알린 변경을 같은 방식으로 셉니다. 더한 줄과 지운 줄은 결과 기록의 수이고, 그림은 diff 줄을 더함·지움·문맥으로 나눈 것입니다. 오류 결과는 세지 않습니다. 결과가 아직 없는 호출은 파일로 세지 않습니다(경로와 diff가 결과에서만 옵니다). 지운 줄 수를 모르는 쓰기(`*` + 툴팁)는 결과 기록이 지운 줄 수를 항상 실으므로 나오지 않습니다. 명령(`bash`)과 하위 에이전트(`agent`)가 바꾼 파일은 알 수 없어 "추적 밖" 호출로만 남고, 도는 턴의 결과 없는 명령은 진행 점(`LiveDot`)입니다. 턴은 사용자 말 하나에서 다음 사용자 말 앞까지입니다. 머리 줄(28)은 "파일 n개 +a −r"와 보기 전환(SegmentedControl sm: 전체/턴별)입니다. 파일 줄은 caustic `Accordion`(flush, sm) 한 칸이고 이름 13/500, 폴더 12 tertiary, 줄 수 12 tabular(더함 success, 지움 danger)입니다. 지운 줄이 0이면 −0은 쓰지 않습니다. 펼치면 그 파일을 바꾼 호출마다 턴 머리와 `FileChangeDiff`(승인 카드와 같은 그림)가 보이고, 첫 diff 머리 줄 끝의 "크게 보기"(xs ghost)는 같은 diff를 대화 상자(lg, 최대 높이 창의 70%)에 엽니다. 탭 id는 `views/panels/tab-ids.ts`의 `CHANGES_TAB_ID`이고 다른 곳(상태 줄 칸 등)은 `openEndTab(CHANGES_TAB_ID)`로 엽니다. [근거: `views/panels/changes/changes-model.ts`, `changes-tab.tsx`, 시안 `_notes/design/dz/dzR5-design.md` §3]
